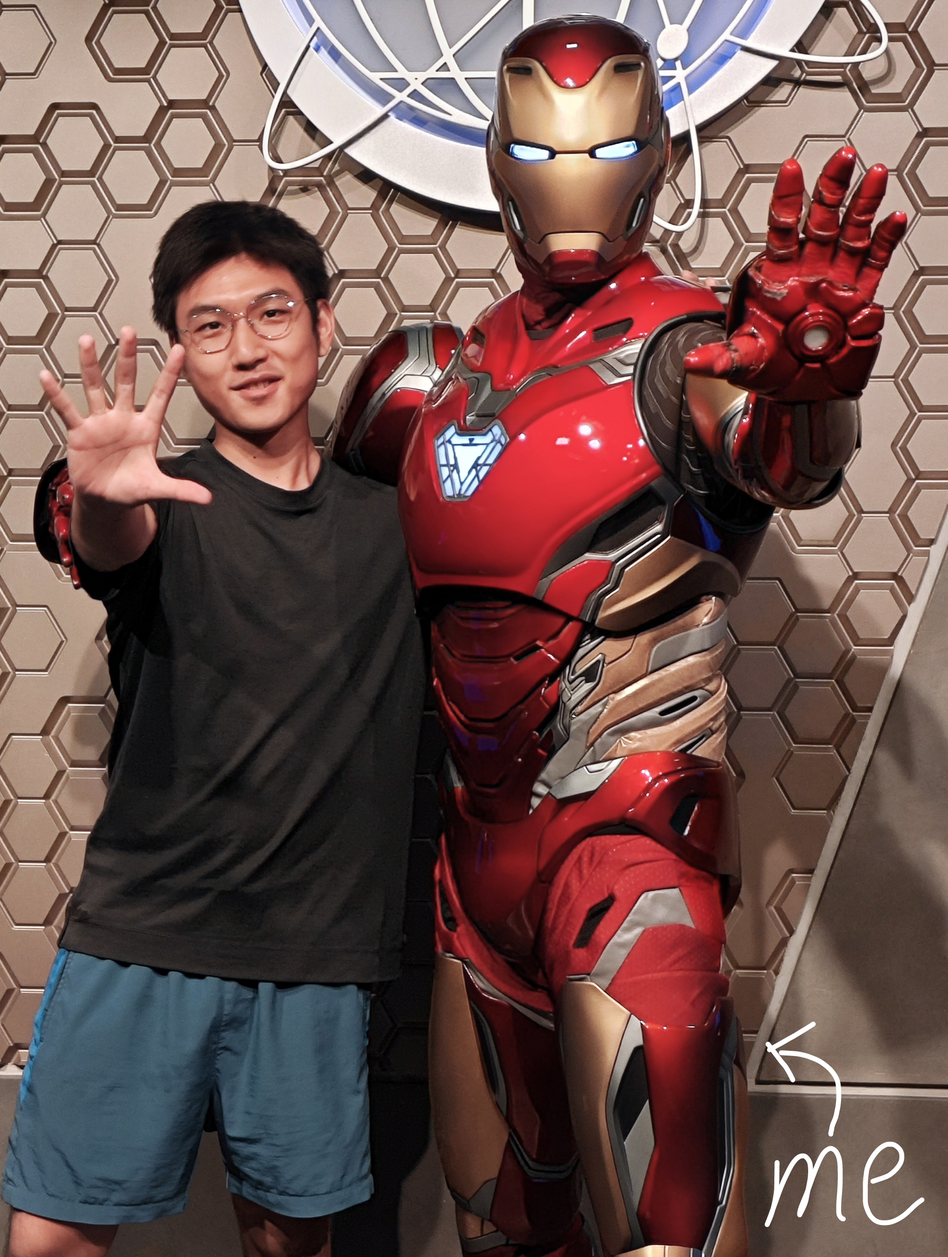
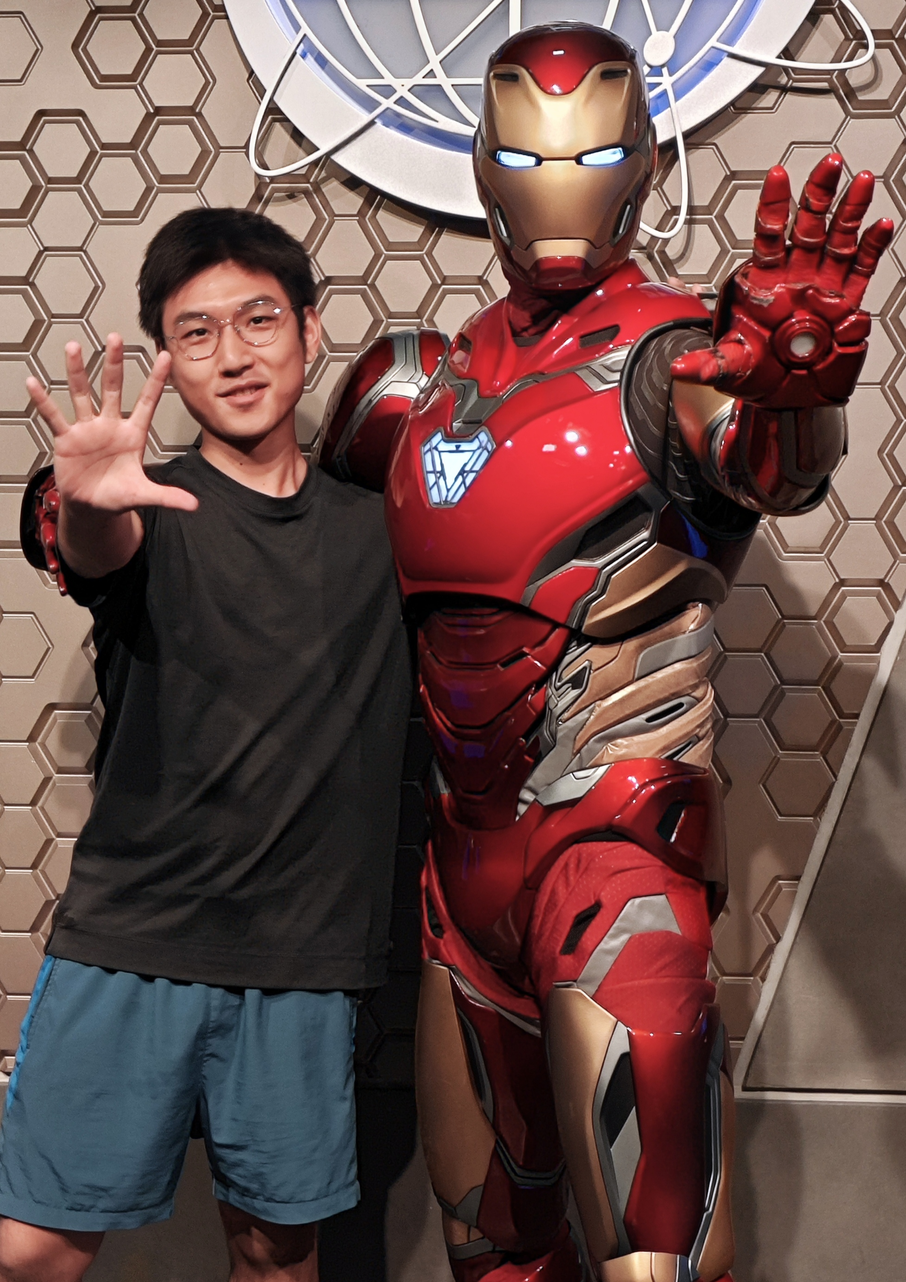
x

diff --git a/index.html b/index.html
@@ -55,12 +55,18 @@
                 <a href="https://github.com/lilh76">Github</a>
               </p>
             </td>
+
             <td style="padding:2.5%;width:30%;max-width:30%">
-              <img style="width:100%;max-width:100%" alt="profile photo" src="images/lilh.jpg" class="hoverZoomLink">
+              <div style="position: relative;">
+                <img style="width:100%;max-width:100%" alt="profile photo" src="images/lilh.jpg" class="hoverZoomLink">
+                <div style="position: absolute; bottom: 10; width: 90%; background-color: rgb(255, 255, 255); padding: 10px;">
+                  <p style="text-align: center; margin: 0; font-size: 8px; color: #8d8d8d;">It is worth noting that I am the person on the left in the photo.</p>
+                </div>
+              </div>
             </td>
+            
           </tr>
         </tbody></table>
-
 
         <table width="100%" align="center" border="0" cellspacing="0" cellpadding="20"><tbody>
           <tr>
